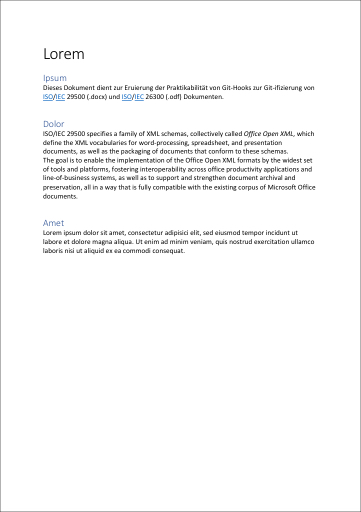
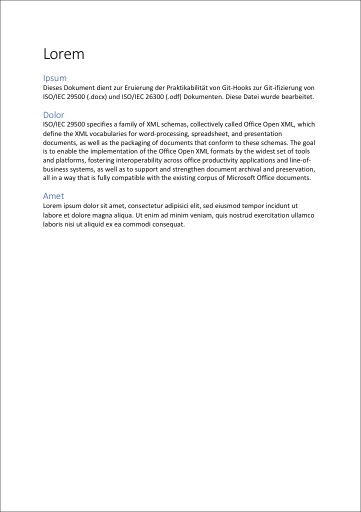
update .docx, .odt, .pages and .md

Changed region(s): [[0.1219, 0.1875, 0.8837, 0.5]]

diff --git a/README.md b/README.md
@@ -1,10 +1,10 @@
-#Lorem
-##Ipsum
-Dieses Dokument dient zur Eruierung der Praktikabilität von Git-Hooks zur Git-ifizierung von ISO/IEC 29500 (.docx) und ISO/IEC 26300 (.odf) Dokumenten.
+# Lorem
+## Ipsum
+Dieses Dokument dient zur Eruierung der Praktikabilität von Git-Hooks zur Git-ifizierung von ISO/IEC 29500 (.docx) und ISO/IEC 26300 (.odf) Dokumenten. Diese Datei wurde bearbeitet.
 
-##Dolor
+## Dolor
 ISO/IEC 29500 specifies a family of XML schemas, collectively called Office Open XML, which define the XML vocabularies for word-processing, spreadsheet, and presentation documents, as well as the packaging of documents that conform to these schemas. 
 The goal is to enable the implementation of the Office Open XML formats by the widest set of tools and platforms, fostering interoperability across office productivity applications and line-of-business systems, as well as to support and strengthen document archival and preservation, all in a way that is fully compatible with the existing corpus of Microsoft Office documents. 
 
-##Amet
+## Amet
 Lorem ipsum dolor sit amet, consectetur adipisici elit, sed eiusmod tempor incidunt ut labore et dolore magna aliqua. Ut enim ad minim veniam, quis nostrud exercitation ullamco laboris nisi ut aliquid ex ea commodi consequat.
